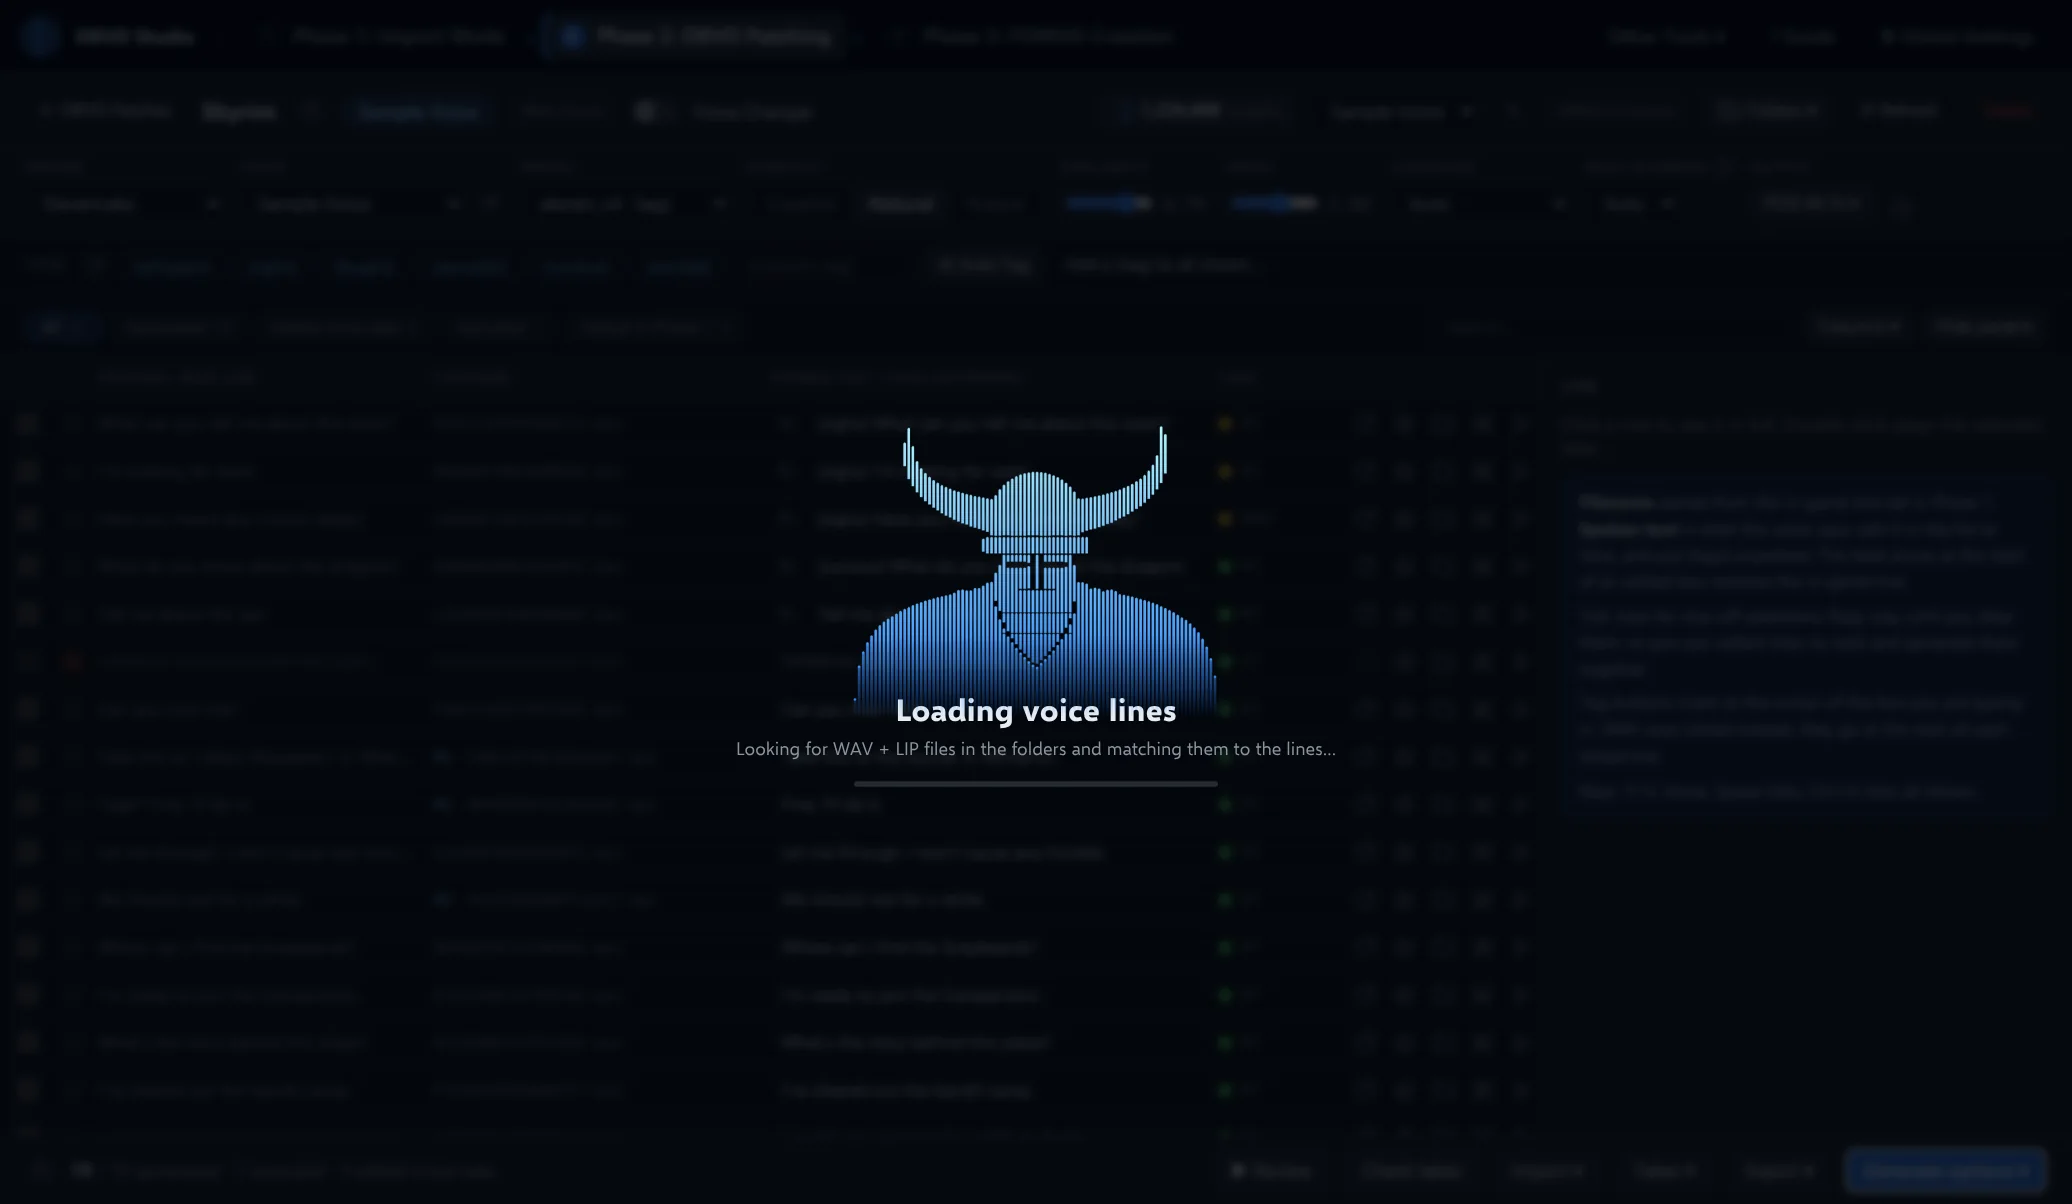
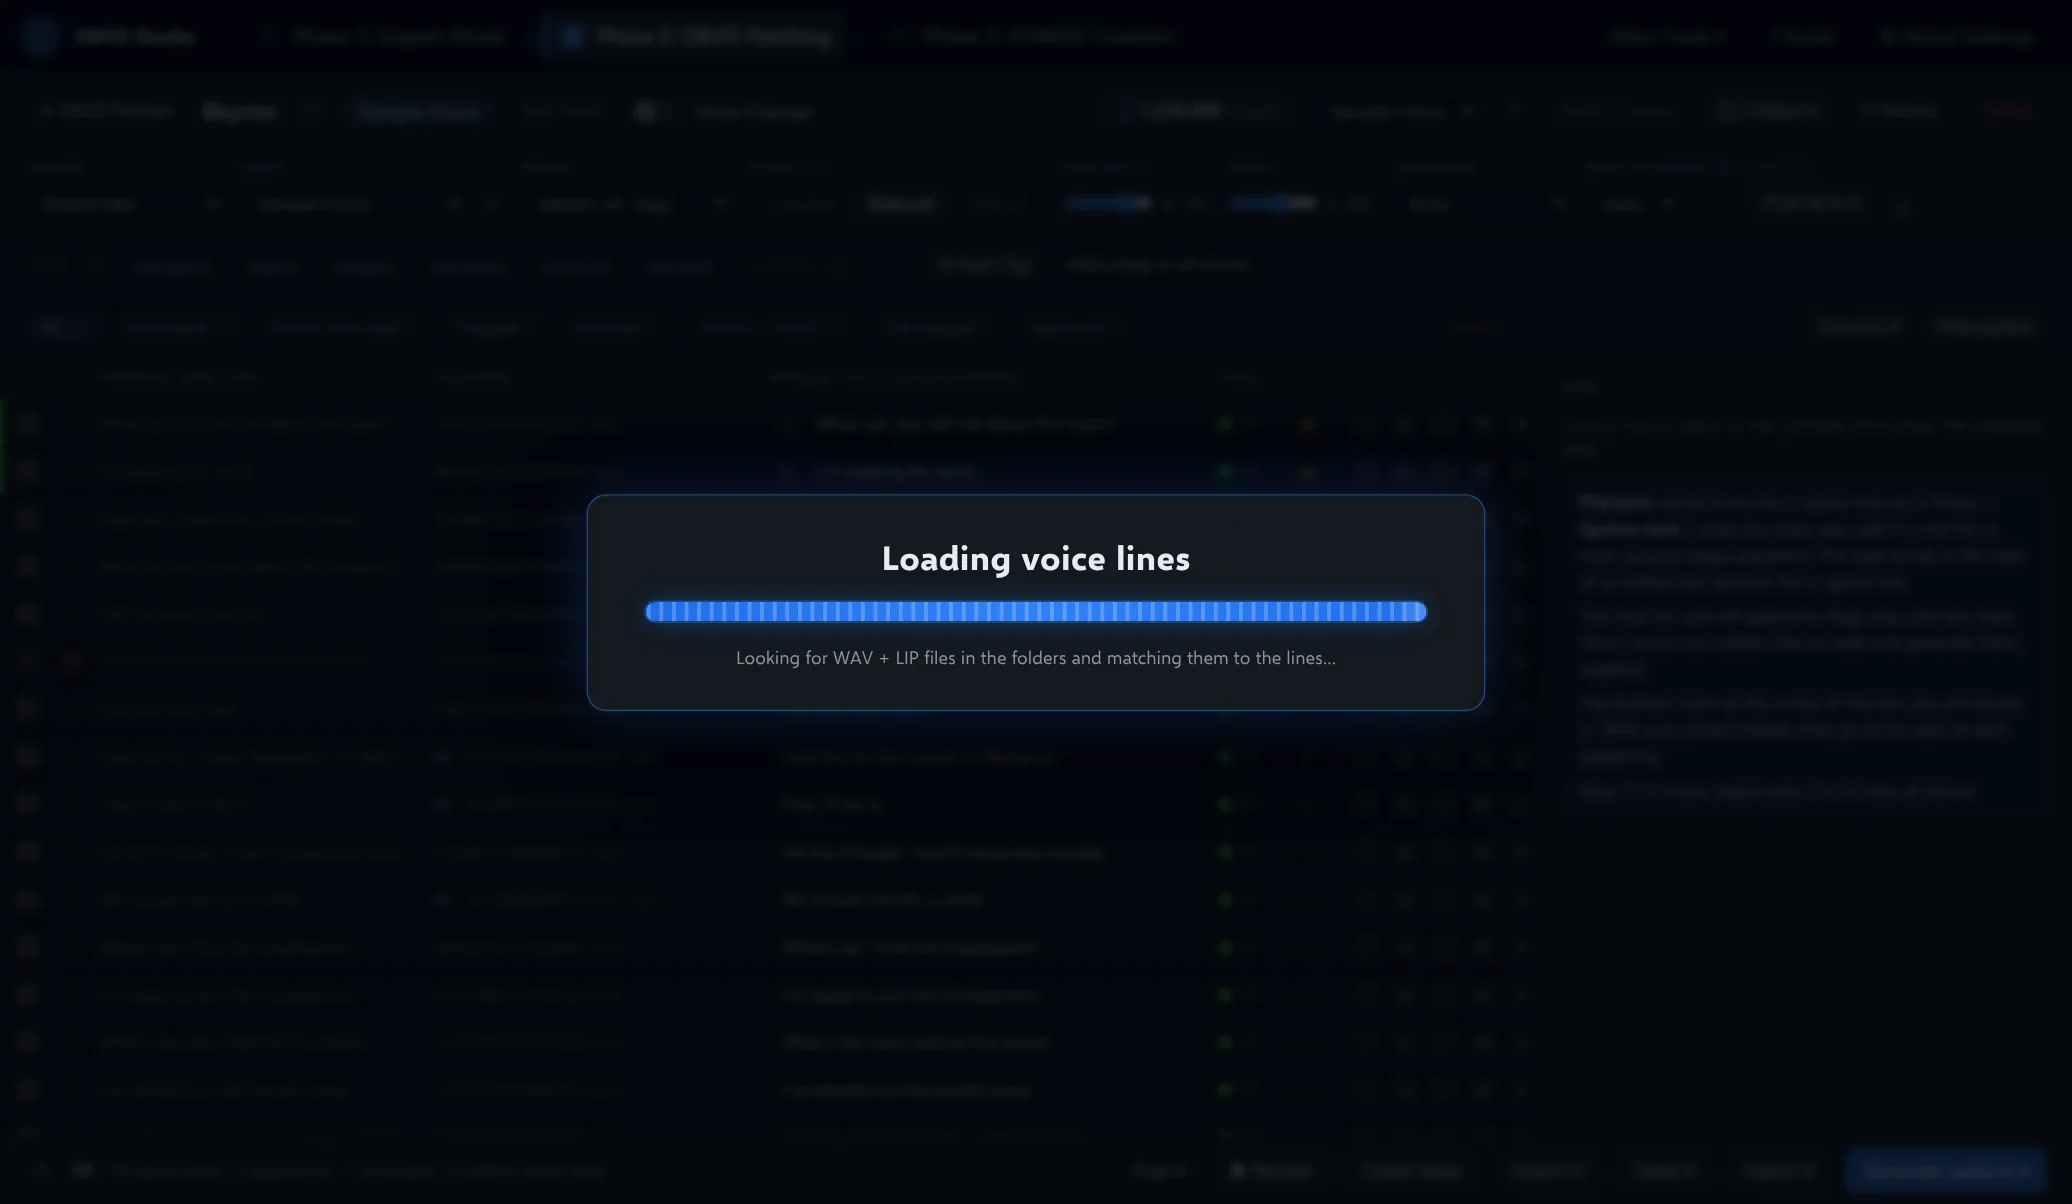
Splash: the DBVO Studio artwork; Loading voice lines: a large glowing progress bar instead of the warrior; guide and help
Claude-Session: https://claude.ai/code/session_01U6TEYM8mjbw7eJaLX2KYzY

Changed region(s): [[0.278, 0.3688, 0.7104, 0.6761]]

diff --git a/src/DbvoStudio.App/wwwroot/styles.css b/src/DbvoStudio.App/wwwroot/styles.css
@@ -731,15 +731,17 @@ select.bad-sel { border-color: var(--bad); color: var(--bad); }
 .fix-remove:hover { color: transparent !important; border-color: var(--bad) !important; background: color-mix(in srgb, var(--bad) 18%, transparent) !important; }
 .fix-remove:hover::after { content: '✕'; position: absolute; inset: 0; display: flex; align-items: center; justify-content: center; color: var(--bad); font-weight: 700; }
 
-/* The busy screen (Loading voice lines) */
-.busy-overlay { position: fixed; inset: 0; z-index: 60; display: flex; align-items: center; justify-content: center; background: color-mix(in srgb, var(--deep, #010409) 78%, transparent); backdrop-filter: blur(3px); animation: busy-in .2s ease-out; }
+/* The busy screen (Loading voice lines): a large glowing bar in the studio's blue */
+.busy-overlay { position: fixed; inset: 0; z-index: 60; display: flex; align-items: center; justify-content: center; background: color-mix(in srgb, var(--deep, #010409) 80%, transparent); backdrop-filter: blur(3px); animation: busy-in .2s ease-out; }
 .busy-overlay.out { opacity: 0; transition: opacity .2s; }
-.busy-card { display: flex; flex-direction: column; align-items: center; gap: 6px; padding: 26px 34px 30px; }
-.busy-art { width: 380px; max-width: 70vw; height: auto; animation: busy-breathe 2.2s ease-in-out infinite; }
-.busy-title { font-size: 22px; font-weight: 650; color: var(--text); letter-spacing: .2px; margin-top: -26px; }
-.busy-sub { color: var(--dim); font-size: 13px; }
-.busy-bar { width: 260px; height: 4px; border-radius: 3px; background: color-mix(in srgb, var(--line) 80%, transparent); overflow: hidden; margin-top: 10px; }
-.busy-bar > i { display: block; width: 35%; height: 100%; border-radius: 3px; background: var(--accent); animation: busy-slide 1.2s ease-in-out infinite; }
-@keyframes busy-slide { 0% { transform: translateX(-110%); } 100% { transform: translateX(300%); } }
-@keyframes busy-breathe { 0%, 100% { filter: brightness(.85); } 50% { filter: brightness(1.15); } }
+.busy-card { display: flex; flex-direction: column; align-items: center; gap: 16px; padding: 30px 40px; border: 1px solid color-mix(in srgb, var(--accent) 45%, transparent); border-radius: 14px; background: color-mix(in srgb, var(--panel) 92%, transparent); box-shadow: 0 0 40px color-mix(in srgb, var(--accent) 22%, transparent), 0 20px 60px rgba(0, 0, 0, .55); }
+.busy-title { font-size: 24px; font-weight: 650; color: var(--text); letter-spacing: .3px; }
+.busy-sub { color: var(--dim); font-size: 13px; max-width: 520px; text-align: center; }
+.busy-bar { position: relative; width: min(560px, 70vw); height: 16px; border-radius: 9px; background: color-mix(in srgb, var(--deep, #010409) 85%, transparent); border: 1px solid color-mix(in srgb, var(--accent) 55%, transparent); overflow: hidden; box-shadow: inset 0 1px 4px rgba(0, 0, 0, .6), 0 0 18px color-mix(in srgb, var(--accent) 30%, transparent); }
+.busy-bar > i { position: absolute; inset: 0; border-radius: 9px;
+  background: repeating-linear-gradient(90deg, rgba(255, 255, 255, .22) 0 3px, transparent 3px 9px), linear-gradient(90deg, #1f6feb, var(--accent) 50%, #1f6feb);
+  background-size: 18px 100%, 100% 100%; box-shadow: 0 0 14px var(--accent); animation: busy-march .6s linear infinite; }
+.busy-bar::after { content: ''; position: absolute; top: 0; bottom: 0; width: 30%; left: 0; background: linear-gradient(90deg, transparent, rgba(220, 240, 255, .85), transparent); animation: busy-sweep 1.5s ease-in-out infinite; }
+@keyframes busy-march { from { background-position: 0 0, 0 0; } to { background-position: 18px 0, 0 0; } }
+@keyframes busy-sweep { 0% { transform: translateX(-100%); } 100% { transform: translateX(340%); } }
 @keyframes busy-in { from { opacity: 0; } to { opacity: 1; } }

diff --git a/src/DbvoStudio.App/wwwroot/help/guide.html b/src/DbvoStudio.App/wwwroot/help/guide.html
@@ -89,8 +89,8 @@
 <figure><img src="help/img/phase2-list.webp" alt="The patch list: both Sample Voice patches are fully generated" loading="lazy"><figcaption>The patch list: both Sample Voice patches are fully generated</figcaption></figure>
 <ul><li><p><strong>+ New DBVO Patch</strong>: pick the voice pack and one or more mods; several mods make an all-in-one patch. Phase 1&#39;s <strong>Continue to Phase 2</strong> creates or opens a patch for you.</p></li><li><p><strong>Drag a patch onto another category</strong> to move it. This changes the mod&#39;s category, which all its patches share.</p></li></ul>
 <h3 id="the-patch-page">The patch page</h3>
-<p>Opening a patch re-reads Phase 1 (so does <strong>⟳ Refresh</strong>). Lines that left Phase 1 have their takes <em>parked</em> in case they return, and WAV + LIP files already in the patch&#39;s WAV + LIP folder are adopted as take #1. With thousands of lines that takes a few seconds, so a <strong>Loading voice lines</strong> screen shows until it is done; the same screen shows after you change the patch&#39;s folders in Folders &amp; options.</p>
-<figure><img src="help/img/busy-screen.webp" alt="Loading voice lines: shown while a large patch is read" loading="lazy"><figcaption>Loading voice lines: shown while a large patch is read</figcaption></figure>
+<p>Opening a patch re-reads Phase 1 (so does <strong>⟳ Refresh</strong>). Lines that left Phase 1 have their takes <em>parked</em> in case they return, and WAV + LIP files already in the patch&#39;s WAV + LIP folder are adopted as take #1. With thousands of lines that takes a few seconds, so a <strong>Loading voice lines</strong> screen with a progress bar shows until it is done; the same screen shows after you change the patch&#39;s folders in Folders &amp; options.</p>
+<figure><img src="help/img/busy-screen.webp" alt="Loading voice lines: a progress bar shown while a large patch is read" loading="lazy"><figcaption>Loading voice lines: a progress bar shown while a large patch is read</figcaption></figure>
 <figure><img src="help/img/phase2-patch.webp" alt="A new patch before generation, with the line panel&#39;s help on the right" loading="lazy"><figcaption>A new patch before generation, with the line panel&#39;s help on the right</figcaption></figure>
 <p>From top to bottom: the header (credits, voice pack switch, <strong>Voice Changer</strong>, <strong>Folders ▾</strong>, <strong>Delete</strong>), the engine toolbar, the tag bar, banners, filters, the grid with the line panel, and the status bar: Review, Check takes, Import ▾, Takes ▾, Export ▾ and Generate options ▾. Folders ▾ holds Folders &amp; options… and opens the patch&#39;s WAV + LIP, final and DBVO Fix folders.</p>
 <h3 id="the-toolbar">The toolbar</h3>

diff --git a/src/DbvoStudio.App/wwwroot/lib.js b/src/DbvoStudio.App/wwwroot/lib.js
@@ -793,14 +793,14 @@ export function keepScroll(root, rebuild, keep = true) {
 }
 
 /**
- * A full-window "please wait" screen with the warrior art, for slow steps (reading thousands of voice lines).
+ * A full-window "please wait" screen with a large glowing progress bar, for slow steps (reading thousands of voice lines).
  * It only appears when the step takes longer than delayMs, so quick steps don't flash. Returns close().
  */
 export function busyOverlay(title = 'Loading voice lines', sub = 'Reading the takes and files from disk…', delayMs = 350) {
   let el = null;
   const timer = setTimeout(() => {
     el = h('div.busy-overlay', { role: 'status', 'aria-live': 'polite' },
-      h('div.busy-card', h('img.busy-art', { src: 'warrior.png', alt: '' }), h('div.busy-title', title), h('div.busy-sub', sub), h('div.busy-bar', h('i'))));
+      h('div.busy-card', h('div.busy-title', title), h('div.busy-bar', h('i')), h('div.busy-sub', sub)));
     document.body.append(el);
   }, delayMs);
   return () => { clearTimeout(timer); if (el) { el.classList.add('out'); const e = el; setTimeout(() => e.remove(), 220); } };
